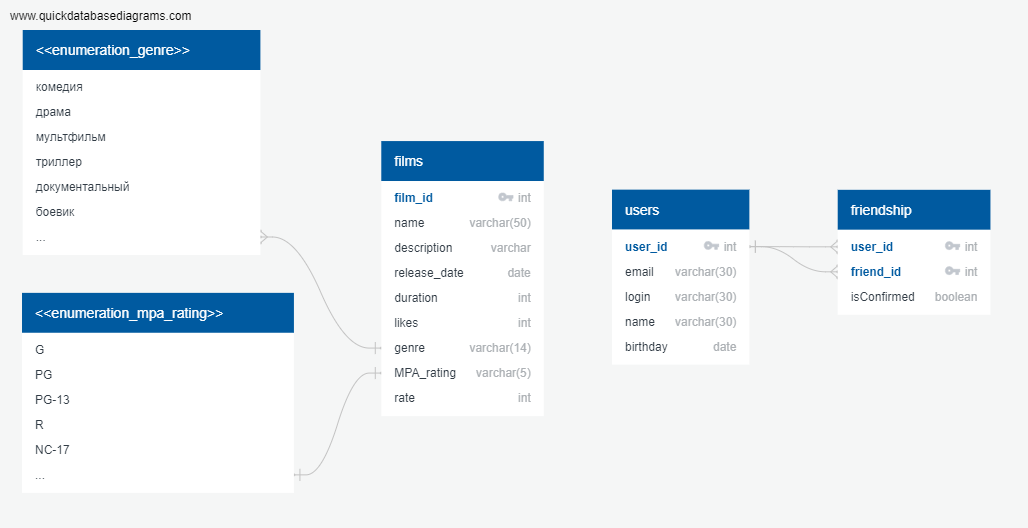
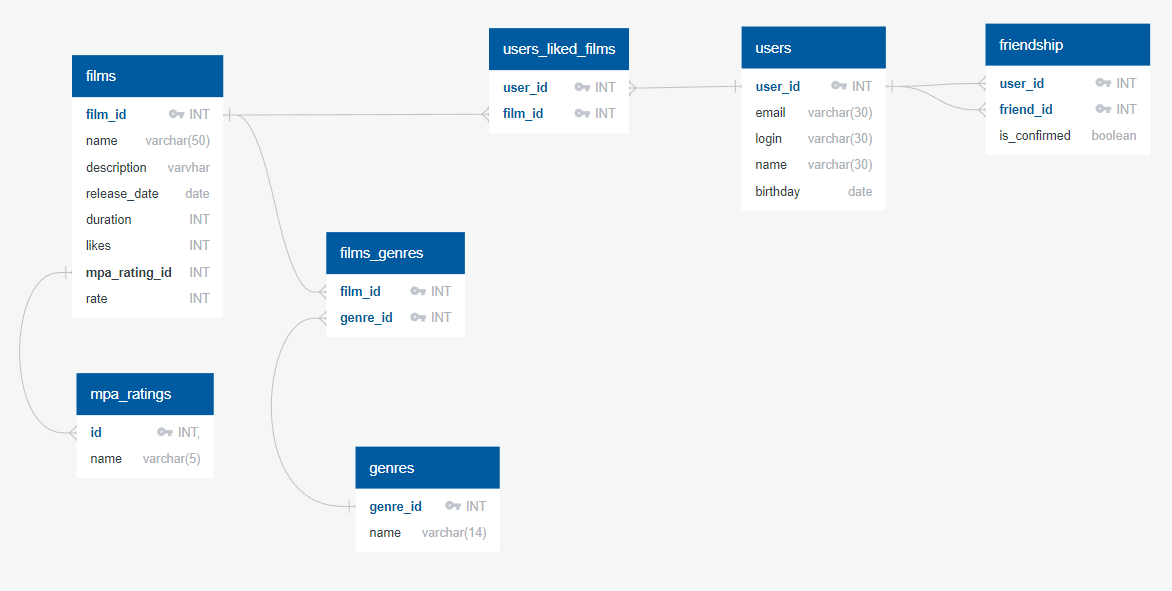
refactor: вынести mpa_rating в отдельную таблицу

diff --git a/src/main/java/ru/yandex/practicum/filmorate/model/User.java b/src/main/java/ru/yandex/practicum/filmorate/model/User.java
@@ -5,8 +5,7 @@ import lombok.NonNull;
 
 import javax.validation.constraints.Email;
 import java.time.LocalDate;
-import java.util.HashMap;
-import java.util.Objects;
+import java.util.*;
 
 @Data
 public class User {
@@ -21,7 +20,7 @@ public class User {
 
     private String name;
     private LocalDate birthday;
-    private HashMap<Long, Boolean> friendsAndRequests;
+    private HashSet<Long> friendsList;
 
     public User(String login, String name, String email, LocalDate birthday) {
         this.login = login;
@@ -29,7 +28,7 @@ public class User {
         this.email = email;
         this.birthday = birthday;
         this.id = 0L;
-        this.friendsAndRequests = new HashMap<>();
+        this.friendsList = new HashSet<>();
     }
 
     public User(Long id, String login, String name, String email, LocalDate birthday) {
@@ -37,8 +36,7 @@ public class User {
         this.name = name;
         this.email = email;
         this.birthday = birthday;
-        this.id = 0L;
-        this.friendsAndRequests = new HashMap<>();
+        this.friendsList = new HashSet<>();
     }
 
     @Override
@@ -46,11 +44,13 @@ public class User {
         if (this == o) return true;
         if (o == null || getClass() != o.getClass()) return false;
         User user = (User) o;
-        return email.equals(user.email);
+        return Objects.equals(id, user.id) && email.equals(user.email) && login.equals(user.login) && Objects.equals(name, user.name) && Objects.equals(birthday, user.birthday) && Objects.equals(friendsList, user.friendsList);
     }
 
     @Override
     public int hashCode() {
-        return Objects.hash(email);
+        return Objects.hash(id, email, login, name, birthday, friendsList);
     }
 }
+
+

diff --git a/src/main/java/ru/yandex/practicum/filmorate/dao/UserDbStorage.java b/src/main/java/ru/yandex/practicum/filmorate/dao/UserDbStorage.java
@@ -8,10 +8,11 @@ import org.springframework.jdbc.support.rowset.SqlRowSet;
 import ru.yandex.practicum.filmorate.exception.UserNotFoundException;
 import ru.yandex.practicum.filmorate.exception.ValidationException;
 import ru.yandex.practicum.filmorate.model.User;
+import ru.yandex.practicum.filmorate.service.UserService;
 import ru.yandex.practicum.filmorate.storage.user.UserStorage;
 
+import java.time.LocalDate;
 import java.util.ArrayList;
-import java.util.Date;
 import java.util.List;
 
 @Qualifier
@@ -23,6 +24,7 @@ public class UserDbStorage implements UserStorage {
     public UserDbStorage(JdbcTemplate jdbcTemplate) {
         this.jdbcTemplate = jdbcTemplate;
     }
+
     @Override
     public List<User> getAllUsers() {
         List<User> users = new ArrayList<>();
@@ -34,10 +36,11 @@ public class UserDbStorage implements UserStorage {
                     usersRows.getString("email"),
                     usersRows.getString("login"),
                     usersRows.getString("name"),
-                    usersRows.getDate("birthday"));
-        }
+                    LocalDate.parse(usersRows.getString("birthday")));
 
-        return null;
+            users.add(user);
+        }
+        return users;
     }
 
     @Override
@@ -52,6 +55,6 @@ public class UserDbStorage implements UserStorage {
 
     @Override
     public void deleteUser(Long id) {
-
+        jdbcTemplate.update("DELETE * FROM users WHERE id=?", id);
     }
 }

diff --git a/src/main/java/ru/yandex/practicum/filmorate/model/Film.java b/src/main/java/ru/yandex/practicum/filmorate/model/Film.java
@@ -13,10 +13,9 @@ public class Film {
     private Long id;
     private HashSet<Long> usersLikes;
     private Integer rate;
-
     @NonNull
     private String name;
-
+    private Long mpaRatingId;
     private String description;
     private LocalDate releaseDate;
     private Integer duration;
@@ -28,8 +27,9 @@ public class Film {
         this.description = description;
         this.releaseDate = releaseDate;
         this.duration = duration;
-        this.id = 0L;
     }
+
+    
 
     @Override
     public boolean equals(Object o) {

diff --git a/src/main/java/ru/yandex/practicum/filmorate/storage/user/UserStorage.java b/src/main/java/ru/yandex/practicum/filmorate/storage/user/UserStorage.java
@@ -15,4 +15,6 @@ public interface UserStorage {
     User updateUser(User user) throws ValidationException, UserNotFoundException;
 
     void deleteUser(Long id);
+
+
 }

diff --git a/src/main/java/ru/yandex/practicum/filmorate/service/UserService.java b/src/main/java/ru/yandex/practicum/filmorate/service/UserService.java
@@ -15,6 +15,7 @@ import java.util.List;
 
 @Service
 @Slf4j
+
 public class UserService {
 
     private final UserStorage userStorage;
